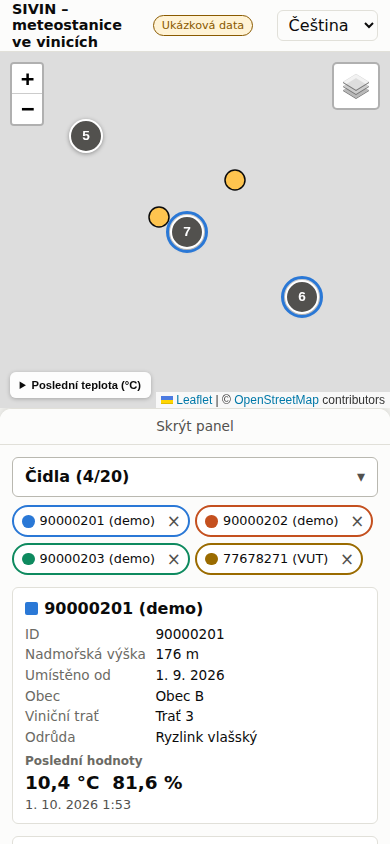
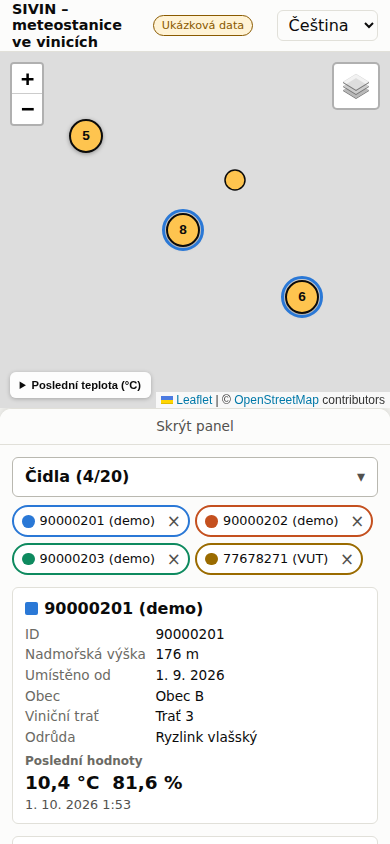
docs: review follow-up of the sensor picker and public off-site reason [WP-3.5]
Group checkbox semantics, word-start search, modal phone sheet,
clustering radius and colours (with the 200-sensor check), name
whitespace cleaning, site errors, off-site reason in the site data;
refreshed screenshots plus a 200-sensor map.

Claude-Session: https://claude.ai/code/session_01QJD7c9yWYF9155kG7NhzWc

Changed region(s): [[0.3692, 0.2464, 0.5538, 0.3081], [0.1538, 0.1232, 0.2769, 0.1848], [0.7077, 0.3081, 0.8308, 0.3697]]

diff --git a/docs/web.md b/docs/web.md
@@ -66,16 +66,18 @@ globals or singletons; `main.ts` is the only place that touches `window`, `fetch
 | `app/SensorCatalog` | Joins `sensors.geojson`, manifest and `latest.json` into `SensorInfo` per sensor (position, elevation, `municipality`, `track`, `variety`, registry `status`, latest values). |
 | `app/SensorGrouping` | Groups sensors municipality → vineyard track for the picker: names in Czech collation with natural number order (`Trať 2` before `Trať 10`), the unassigned group (`null`) last; within a track by label, retired sensors last. |
 | `app/SensorQuery` | The picker's search: every word of the query must occur in id, label, municipality, track or variety; case and diacritics are ignored (`foldText`: NFD, combining marks removed, lower case). |
-| `state/GroupSelection` | Tri-state of a group (`none` / `some` / `all`) and "select all" of a group within the comparison limit: a fully selected group is removed; otherwise its unselected sensors are appended in group order up to 8 and the rest is reported as truncated. |
+| `state/GroupSelection` | Tri-state of a group (`none` / `some` / `all`) and the group checkbox within the comparison limit: a group with **any** selected sensor is cleared (so a partly selected group can always be cleared, also at the limit); a group without one is added in group order up to 8 and the rest is reported (`groupNotice`: "only n added", or the plain limit message when nothing fit). |
 | `app/ChartDataLoader` | Loads raw / hourly / daily series and in-window events **per sensor** (`Promise.allSettled`): a sensor whose series fail becomes a failure entry shown as a per-sensor error above the chart, the other sensors still render. A missing or invalid events file degrades to "no events" with a `console.warn`. |
 | `app/ChartPresenter` | Resolves the window from the state (falling back to the default window if a spec cannot be resolved), shows "loading", the data or an error; drops responses of superseded requests. |
 | `state/Store`, `AppState`, `HashStateCodec` | Observable immutable state (selection, window, resolution, language) and its URL-hash form, e.g. `#s=77678271,77680921&w=7d&r=hourly&lang=cs`, `#w=season&y=2026`, `#w=custom&from=2026-06-01&to=2026-06-15`. `r` is omitted for automatic resolution. Store notifications are not re-entrant: an update made inside a listener is applied at once but notified after the current change. The codec accepts only real calendar dates (they must round-trip through `Date`) and years 2000–2100; anything else in the hash is ignored. |
 | `i18n/I18n`, `LanguagePreference` | UI strings cs (default) / de / en, manifest labels, number/date formatting. Lookup: language → Czech → key. The language is stored in `localStorage` (every access in `try/catch`). Priority at start: URL hash → stored preference → Czech. |
-| `ui/MapView` | Leaflet map, OSM tiles (layer switch to OpenTopoMap), fit to sensors, circle markers coloured by latest temperature, grey with dashed outline when `stale` or missing, tooltip (label, value, local time), legend as a `<details>` element (collapsed by default below 600 px). Click selects one sensor, ctrl/⌘-click toggles it in the comparison. Markers are keyboard controls: `role="button"`, in the tab order, accessible name "label: value", `aria-pressed` for the selection; Enter/Space selects, Ctrl/⌘ + Enter/Space compares. **Clustering** (`leaflet.markercluster`): markers closer than about one marker diameter on screen (`CLUSTER_RADIUS_PX` = 28 px) merge into a grey badge with the count; a click on a badge, or Enter on a focused one, zooms in to its sensors (at the highest zoom it spreads them). A badge that hides a selected sensor has a blue ring. Leaflet re-creates a marker's element when it leaves a cluster, so the keyboard attributes are re-applied on every `add`. |
-| `ui/ClusterIcon` | Content and classes of a cluster badge: the count, an accessible name ("Skupina čidel: 5 – přiblížit") and the selection ring. Neutral grey on purpose: the temperature colours belong to single sensors. |
+| `ui/MapView` | Leaflet map, OSM tiles (layer switch to OpenTopoMap), fit to sensors, circle markers coloured by latest temperature, grey with dashed outline when `stale` or missing, tooltip (label, value, local time), legend as a `<details>` element (collapsed by default below 600 px). Click selects one sensor, ctrl/⌘-click toggles it in the comparison. Markers are keyboard controls: `role="button"`, in the tab order, accessible name "label: value", `aria-pressed` for the selection; Enter/Space selects, Ctrl/⌘ + Enter/Space compares. **Clustering** (`leaflet.markercluster`, see *Clustering* below): markers closer than `CLUSTER_RADIUS_PX` (42 px) on screen merge into a badge with the count, coloured by the **mean latest temperature** of its members on the marker scale; a click on a badge, or Enter on a focused one, zooms in to its sensors (at the highest zoom it spreads them). A badge that hides a selected sensor has a blue ring. Leaflet re-creates a marker's element when it leaves a cluster, so the keyboard attributes are re-applied on every `add`. |
+| `ui/ClusterIcon` | Content of a cluster badge: the count, an accessible name ("Skupina čidel: 5 – přiblížit"), the colour (below) and the selection ring. |
 | `ui/SensorPanel` | Right-hand panel (bottom sheet ≤ 760 px, collapsible): sensor picker, metadata (incl. municipality and track) and latest values of the selected sensors, time-window controls, chart. |
 | `ui/picker/SensorPicker` | Sensor selection that scales to larger networks (WP-3.5), details below. |
 | `ui/picker/PickerTree` | The grouped checkbox list (composite of group nodes and sensor rows). The DOM is built once; `update` only shows, hides and checks, so focus stays where it is while typing or toggling. |
+| `ui/picker/ModalSheet` | Makes the open panel modal in the phone layout: `role="dialog"`, `aria-modal="true"`, every other part of the page `inert`, Tab / Shift+Tab wrap inside the sheet; all undone on close. |
+| `ui/ClusterIcon` (colours) | `appearance(tempsC, selectedCount)`: mean of the members' current temperatures (stale or missing ones ignored) on `TemperatureScale`; grey `STALE_COLOR` with a dashed ring only when no member has a value; text dark or white, whichever has the higher WCAG contrast (`inkFor`). |
 | `ui/picker/SensorChips` | The selected sensors as removable chips in their line colour, in selection order; they double as the chart legend. |
 | `ui/TimeWindowControl` | Preset buttons (`aria-pressed`), season year, custom from–to form, resolution selector whose "automatic" entry names the resolution it picks, and a line with the concrete window and resolution actually shown ("Zobrazeno 24. 9. 2026 0:00 – 30. 9. 2026 23:59 · Surová data"; the end shown is the last minute inside the half-open window). |
 | `ui/SeriesChart` | uPlot chart: temperature (left axis, °C, solid) and relative humidity (right axis, %, dashed), one colour per compared sensor, x axis in the display time zone, resizes with its container, per-sensor load errors above it. Only the canvas has `role="img"` and a name; the legend table and event buttons stay in the accessibility tree. |
@@ -93,25 +95,53 @@ Owner decision 2026-10-05: the selection must scale beyond a handful of sensors.
   with a **search field** (focused on open) and the sensors grouped **municipality → vineyard
   track** (`municipality`, `track` of the registry; a sensor without a value is listed under
   *Nezařazeno* on that level). Each group has a disclosure button with its name and
-  "selected/visible" count, and a **tri-state "select all" checkbox** over its *visible*
-  sensors (so "select all" during a search selects the matches only). Selecting a group
-  respects the 8-sensor comparison limit: it adds sensors in list order until 8 are selected and
-  says how many were added ("Srovnat lze nejvýše 8 čidel – ze skupiny bylo přidáno jen 6.");
-  a fully selected group is deselected.
+  "selected/visible" count, and a **tri-state checkbox** over its *visible* sensors. A group
+  without a selected sensor is added in list order until 8 sensors are selected, with a notice
+  how many were added ("Srovnat lze nejvýše 8 čidel – ze skupiny bylo přidáno jen 6."; just
+  "Srovnat lze nejvýše 8 čidel." when nothing fit). A group with **any** selected sensor
+  (checked or mixed) is cleared by its checkbox, so a partly selected group can always be
+  cleared, also at the limit.
 - **Search** filters by id, label, municipality, track and variety, case- and
-  diacritics-insensitive, every word must match ("ryzl mik"). Starting a search expands all
-  groups. Retired sensors are listed last in their track, struck through and greyed, with
-  "vyřazeno"; the variety is shown under the label.
+  diacritics-insensitive: every word of the query must be the **start of a word** of one of
+  those fields ("ryzl mik"; "obec b trat 4" finds Obec B / Trať 4 only — "b" does not match
+  inside "obec", "4" not inside an id "90000401"). Words are split at anything that is not a
+  letter or digit. Starting a search expands all groups. During a search the group checkbox
+  acts on the matches, and says so: its name is "Vybrat nalezená v <group>", its state
+  refers to the matches, and a hint "nalezeno m z n" next to the name shows how many of the
+  group's sensors match.
+- Retired sensors are listed last in their track and greyed (not struck through: their data are
+  kept), with "vyřazeno"; the variety is shown under the label.
+- **Limit notice** once, in the picker: inside the open panel, else right under the button
+  (the side panel no longer repeats it).
 - **Chips** below the button: the compared sensors in their line colour with a × button
   ("Odebrat … ze srovnání"); removing one moves focus to the next chip, or to the button.
 - **Keyboard:** Tab through the controls (native checkboxes and buttons), ↓/↑ move between the
   visible controls of the open panel, Escape closes it and returns focus to the button; a click
-  outside closes it. On phones (≤ 760 px) the open panel is a **full-screen sheet** with a
-  title "Výběr čidel (n/N)" and a "Hotovo" button.
+  outside closes it. On phones (≤ 760 px, `PHONE_LAYOUT_QUERY` in `main.ts`, checked on each
+  opening) the open panel is a **modal full-screen sheet** (`ModalSheet`): `role="dialog"`,
+  `aria-modal="true"`, the rest of the page `inert`, Tab trapped inside, a title
+  "Výběr čidel (n/N)" and a "Hotovo" button; closing restores everything and returns focus to
+  the button.
 - The selection stays in the URL hash (`#s=…`) as before; the open/closed state, the search and
   collapsed groups are not part of the URL.
 
 Screenshots: `docs/wp_log/img/WP-3.5-*.png`.
+
+### Clustering
+
+`MapView` puts the markers into a `leaflet.markercluster` group. `CLUSTER_RADIUS_PX`
+(`src/ui/MapView.ts`, a named constant) is its `maxClusterRadius`: the larger of a marker's
+(20 px) and a badge's (34 px) diameter plus an 8 px margin = **42 px**, so neither markers nor
+badges overlap. The first choice, 28 px (one marker diameter), was checked against a
+**synthetic 200-sensor site** (10 municipalities × 7 tracks, 1440 × 900, overview zoom): 26
+badges, many of them overlapping, because a badge is larger than a marker; 44 px gave 16 badges
+and 60 px 8 (screenshot `WP-3.5-200-sensors-map.png`, 42 px). Change the constant to cluster
+more or less aggressively.
+
+A badge is coloured by the **mean latest temperature** of its members (only current values:
+stale and missing ones are ignored) on the same scale as the markers, so the temperature
+picture stays visible when zoomed out. It is grey with a dashed ring only when no member has a
+current value. Text is dark or white, whichever contrasts more.
 
 ### Time windows and resolution
 
@@ -178,8 +208,14 @@ STUCK | PRE_DEPLOYMENT | MANUAL_EXCLUDE:
 
 ```json
 { "type": "off_site", "t": 1780552800, "t_end": 1780668000, "source": "log",
-  "detail": "service: battery replacement" }
+  "detail": "service" }
 ```
+
+`detail` of an `off_site` event is only the **reason category** of the off-site log (`office`,
+`service`, `transport`, `storage`, `other`), never its free-text note (by analogy with the owner
+decision of 2026-10-05 on registry notes; [site.md](site.md#eventsidjson)). The web translates it
+("Mimo vinici: servis", "Nicht im Weinberg: Wartung", "Not in the vineyard: service"); any other
+text (data published before this rule) is shown as it is.
 
 `t_end` (Unix seconds, exclusive) is required for `off_site` and is `null` while the sensor is
 still off site. On a point event (`deployment`, `retrieval`, `step`) a `t_end` is **ignored with
@@ -211,7 +247,7 @@ depend on the flags. Lines of other compared sensors continue through the band. 
 focusable grey square handle at its centre (handles of bands at the same place, e.g. two
 compared sensors serviced together, are stacked downwards), whose accessible name and tooltip
 read
-"Mimo vinici: <detail> – <sensor> · <from> – <to>" (de "Nicht im Weinberg", en "Not in the
+"Mimo vinici: <reason> – <sensor> · <from> – <to>" (de "Nicht im Weinberg", en "Not in the
 vineyard"; open end "dosud" / "bis heute" / "ongoing"). The logic is in
 `src/ui/EventMarkers.ts` (`offSiteBands`, `withoutBands`, `EventMarkers.drawBands`).
 
@@ -241,10 +277,11 @@ available through `DataClient.getIndices` but not displayed yet (WP-3.4).
 sampling step with a per-sensor phase and ±3 s clock jitter; sensor 77799986 has one synthetic
 `off_site` service period, 4 Jun 06:00 – 5 Jun 14:00 UTC). To exercise the picker and the
 clustering at scale (WP-3.5) it has **16 more synthetic sensors** (ids `9xxxxxxx`, label
-"… (demo)") with data for September 2026 only, so there are 20 sensors in the fictional
-municipalities "Obec A/B/C" with tracks "Trať 1–6", one sensor without a track, two without any
-grouping, one `inactive` and one `retired` sensor (≈ 1.4 MB in total). Names, ids and varieties
-of these sensors are invented. The registry in the fixture is the public projection (`notes`
+"… (demo)") with data for September 2026 only, so there are 20 sensors: the synthetic ones in
+the fictional municipalities "Obec A/B/C" with tracks "Trať 1–6" (one without a track, one
+without any grouping, one `inactive`, one `retired`), and the **four real sensor ids with
+municipality, track and variety `null`**, so the demo makes no fictional claim about real
+devices (≈ 1.4 MB in total). Names, ids and varieties of the synthetic sensors are invented. The registry in the fixture is the public projection (`notes`
 and `note` are `null`), like the pipeline's output. It is
 not a measurement; `public/data/README.md` says so and the UI shows a "demo data" badge.
 

diff --git a/docs/site.md b/docs/site.md
@@ -144,7 +144,17 @@ Each optional group is written only when some day has a value.
 `{"sensor_id": ..., "events": [...]}`, written for every published sensor (possibly with an
 empty list). QC reports many event kinds; `site.events` selects the published ones. Each keeps
 its kind as `type`; `source` is `log`, `detected` or `registry`; `confidence` is 0-1 or `null`;
-`detail` is the QC text.
+`detail` is the QC text, except for `off_site`.
+
+**Off-site notes are not published.** By analogy with the owner decision of 2026-10-05 on
+registry notes, the `detail` of an `off_site` event is only the **reason category** of the
+off-site log entry (`office`, `service`, `transport`, `storage`, `other`), never its free-text
+`note` (`SiteEventMapping` with the filter `public_reason` of `sivin.registry.offsite`; a text
+that does not start with a known reason gives `detail: null`). The web translates the reason.
+Internal outputs keep the full `"<reason>: <note>"`: `data/derived/events/`, the run record
+and job summary, and the CLI. `tests/site/test_service.py` writes a marker note into the
+off-site log and checks that it reaches no site file but stays in the derived events. (To be
+confirmed by the owner.)
 
 | QC event kind | Published by default | Shape | Web |
 |---|---|---|---|
